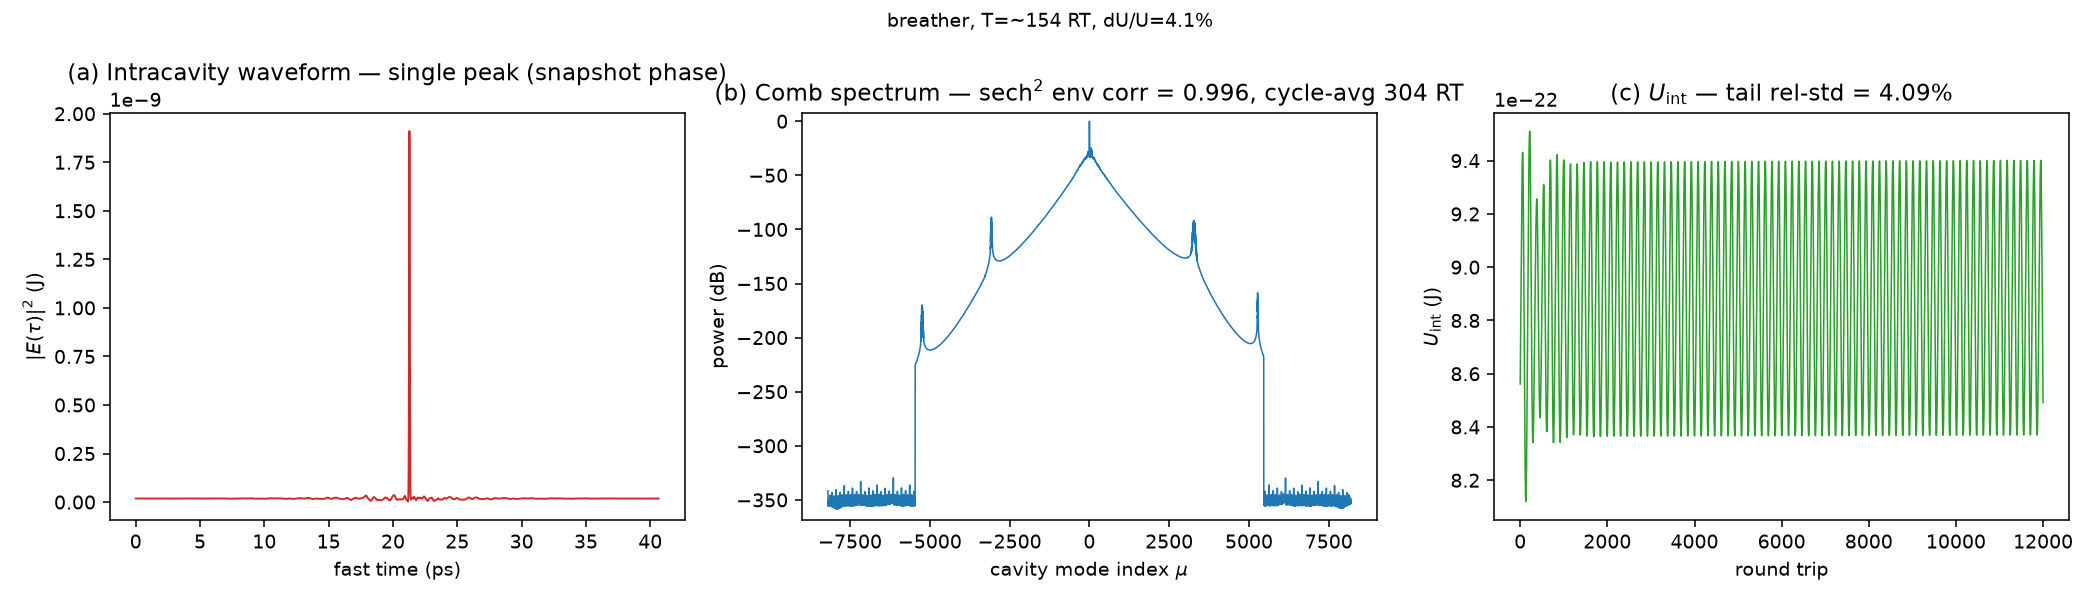
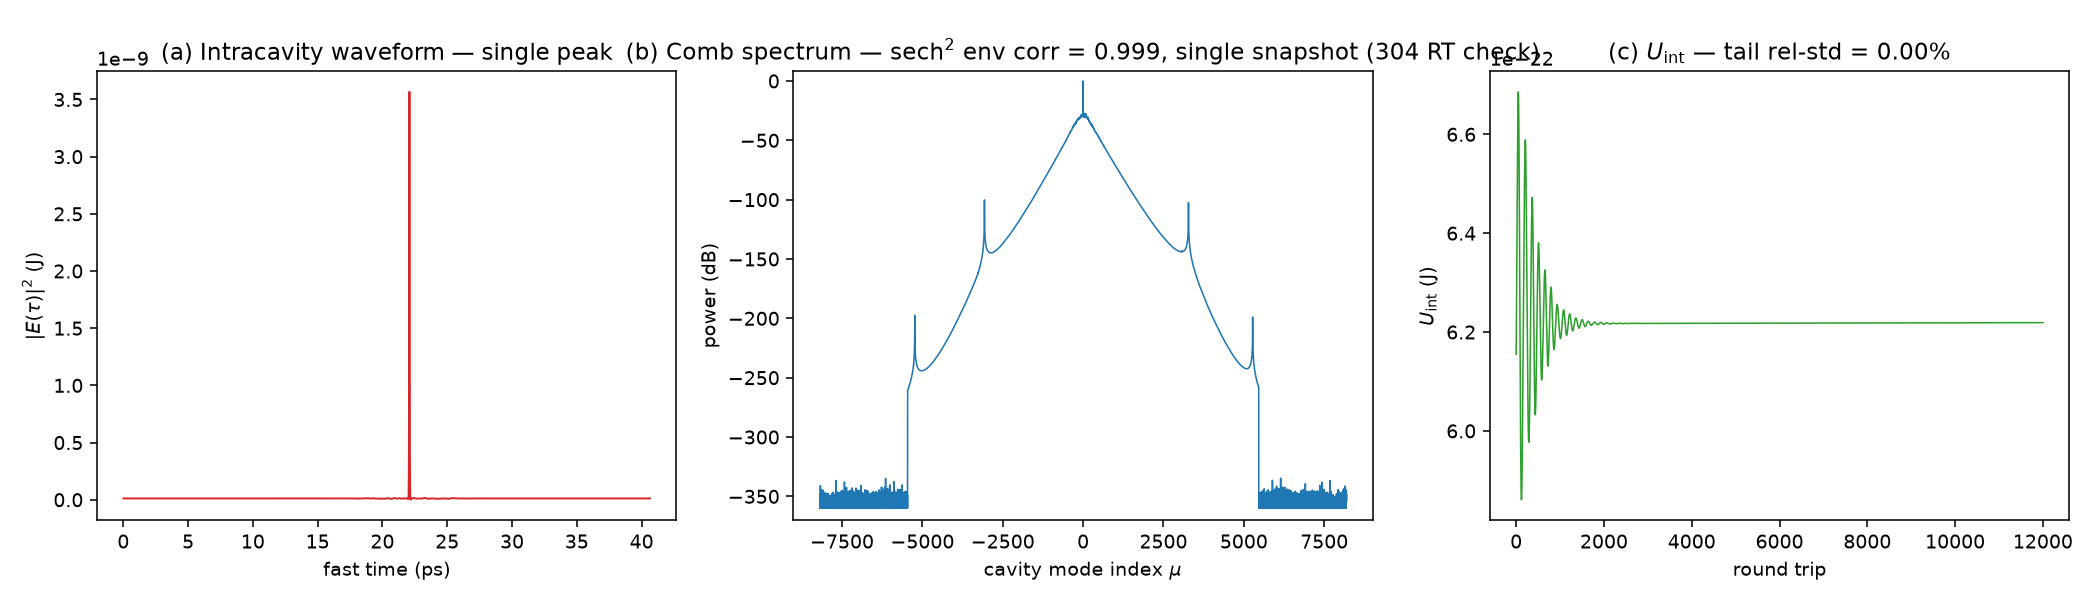
Replace forced-breather cycle-average spectrum with stationary snapshot path
Add stationary_snapshot_spectrum() to analysis/dks_access.py: continue a
settled DKS for n_check_rt round trips (snapshot_interval=1) and return the
FINAL snapshot's optical spectrum (phase-independent for a stationary
attractor) plus stationarity diagnostics — energy_rel_std, spectrum_max_dev_db
(max per-mode dB deviation vs the mean over visible modes), V6 is_breather,
and centroid_drift_modes. optical_spectrum and cycle_averaged_spectrum are
unchanged.

Rewrite scripts/regenerate_dks_artifacts.py stages 2-3:
- Stage 2 now asserts a STATIONARY DKS at the operating point (not a breather)
  with dU/U < STATIONARY_RELSTD, and drops the breather title annotation.
- Stage 3 builds the committed spectrum from a single snapshot via
  stationary_snapshot_spectrum, asserting energy_rel_std < STATIONARY_RELSTD
  and non-breathing. The spectrum NPZ stores n_rt_checked / energy_rel_std /
  spectrum_max_dev_db (replacing breathing_period_rt / breathing_relstd), and
  provenance records a stationarity_check block with stationarity="stationary".
- Rename --avg-rt to --check-rt (--avg-rt kept as a hidden back-compat alias).

plot_optical_spectrum / plot_soliton_summary label a stationary sp as
"single snapshot (stationarity-checked over N RT)".

Regenerate the committed 10-kappa stationary artifacts (energy_rel_std ~8e-6,
spectrum_max_dev ~0.004 dB), replacing the stale 8-kappa breather cycle-average.

Claude-Session: https://claude.ai/code/session_01UBzGyFHcwFWAnmToWF7xeW

diff --git a/analysis/dks_access.py b/analysis/dks_access.py
@@ -524,6 +524,86 @@ def cycle_averaged_spectrum(res: dict, cav: CavityParams, *, n_rt: int = None,
     return sp
 
 
+def stationary_snapshot_spectrum(res, cav, *, n_check_rt=400, pin=PIN_W,
+                                 config_path=CONFIG_PATH, **solver_kwargs):
+    """Single-snapshot spectrum of a SETTLED STATIONARY soliton + stability
+    diagnostics. Continues res["e_final"] (warm field + thermal state) for
+    n_check_rt round trips at snapshot_interval=1, then:
+      - spectrum = optical_spectrum(final snapshot)  (phase-independent for a
+        stationary attractor);
+      - energy_rel_std = std/mean of U_int over the continuation;
+      - spectrum_max_dev_db = max over the continuation of the per-mode dB
+        deviation of each RT's snapshot spectrum from the mean, restricted to
+        modes above a -200 dB visibility floor (temporal stability of the
+        comb);
+      - v6 = breathing_metrics(U_int continuation) — must report is_breather
+        False with autocorr peak < V6_MIN_AC_PEAK;
+      - centroid_drift_modes = |mode-power centroid(last) - centroid(first)|.
+    Returns a spectrum dict (same schema as optical_spectrum) plus keys
+    n_rt_checked, energy_rel_std, spectrum_max_dev_db, is_breather,
+    breathing_relstd, centroid_drift_modes, e_final. Reuse the _run(...,
+    snapshot_interval=1) continuation exactly as cycle_averaged_spectrum does,
+    but take the FINAL snapshot's spectrum instead of the mean.
+    """
+    e0 = np.asarray(res["e_final"])
+    n_tau = int(e0.shape[0])
+    n_rt = int(n_check_rt)
+    sol = _run(res["delta_omega"], n_rt, cav, e0=e0,
+               delta_t0=res.get("delta_t_final"), seed=res.get("seed", 0),
+               n_tau=n_tau, pin=pin, snapshot_interval=1,
+               config_path=config_path, **solver_kwargs)
+    snaps = np.asarray(sol["E_snapshots"])[0]
+    assert snaps.shape == (n_rt, n_tau), snaps.shape
+    e_final = np.asarray(sol["e_final"])[0]
+
+    # Spectrum from the FINAL snapshot. For a stationary attractor the field is
+    # fixed (up to a global phase that |fft|^2 discards), so the single snapshot
+    # is representative — no cycle-averaging needed (contrast breathers, whose
+    # every snapshot spectrum is breathing-phase-dependent).
+    sp = optical_spectrum(e_final, cav)
+
+    # Per-RT snapshot power spectra for the temporal-stability diagnostics.
+    powers = np.abs(
+        np.fft.fftshift(np.fft.fft(snaps, axis=-1), axes=-1)) ** 2   # (n_rt, n_tau)
+    mean_power = powers.mean(axis=0)
+
+    # Energy stability: rel-std of U_int over the continuation.
+    u_int = np.asarray(sol["U_int_history"])[0]
+    energy_rel_std = float(np.std(u_int) / max(np.mean(u_int), 1e-300))
+
+    # Temporal stability of the comb: max per-mode dB deviation of any RT's
+    # snapshot spectrum from the mean, over modes above a -200 dB visibility
+    # floor (dim/dealiased modes have meaningless dB and are excluded).
+    mean_norm_db = 10.0 * np.log10(
+        np.maximum(mean_power / max(mean_power.max(), 1e-300), 1e-36))
+    visible = mean_norm_db > -200.0
+    rt_db = 10.0 * np.log10(np.maximum(powers, 1e-300))
+    mean_db = 10.0 * np.log10(np.maximum(mean_power, 1e-300))
+    dev_db = np.abs(rt_db - mean_db[None, :])
+    spectrum_max_dev_db = (
+        float(dev_db[:, visible].max()) if bool(visible.any()) else 0.0)
+
+    # V6 breather-vs-stationary on the U_int continuation. A settled stationary
+    # DKS has no genuine periodicity: is_breather is False and the autocorr peak
+    # stays below V6_MIN_AC_PEAK (so breathing_period_rt is NaN).
+    v6 = breathing_metrics(u_int)
+
+    # Comb centroid drift (mode-power centroid, first vs last snapshot).
+    mu = np.arange(n_tau) - n_tau // 2
+    def _centroid(pw):
+        return float(np.sum(mu * pw) / max(np.sum(pw), 1e-300))
+    centroid_drift_modes = abs(_centroid(powers[-1]) - _centroid(powers[0]))
+
+    sp["n_rt_checked"] = n_rt
+    sp["energy_rel_std"] = energy_rel_std
+    sp["spectrum_max_dev_db"] = spectrum_max_dev_db
+    sp["is_breather"] = bool(v6["is_breather"])
+    sp["breathing_relstd"] = float(v6["breathing_relstd"])
+    sp["centroid_drift_modes"] = float(centroid_drift_modes)
+    sp["e_final"] = e_final
+    return sp
+
+
 def _measured_dint_native(csv_path=None):
     """Native (mu, D_int, D1, f0) from the CSV in the soliton-rest gauge.
 
@@ -1043,9 +1123,13 @@ def plot_optical_spectrum(path: Path, e_field, cav, delta_omega, *,
     if sp is None:
         sp = optical_spectrum(e_field, cav)
         main_label = f"n_tau={e_field.shape[0]} (resolved band)"
-    else:
+    elif "n_rt_averaged" in sp:
         main_label = (f"n_tau={sp['mu'].size}, cycle-averaged over "
-                      f"{sp.get('n_rt_averaged', '?')} RT")
+                      f"{sp['n_rt_averaged']} RT")
+    else:
+        main_label = (f"n_tau={sp['mu'].size}, single snapshot "
+                      f"(stationarity-checked over "
+                      f"{sp.get('n_rt_checked', '?')} RT)")
     fig, ax = plt.subplots(figsize=(9, 5.2))
     # sort by wavelength for a clean line
     order = np.argsort(sp["wavelength_nm"])
@@ -1136,8 +1220,10 @@ def plot_soliton_summary(path: Path, res, cav, *, sp=None, title_extra=""):
     comb_note = ""
     if sp is None:
         sp = optical_spectrum(e, cav)
+    elif "n_rt_averaged" in sp:
+        comb_note = f", cycle-avg {sp['n_rt_averaged']} RT"
     else:
-        comb_note = f", cycle-avg {sp.get('n_rt_averaged', '?')} RT"
+        comb_note = f", single snapshot ({sp.get('n_rt_checked', '?')} RT check)"
     order = np.argsort(sp["mu"])
     axes[1].plot(sp["mu"][order], sp["power_db"][order], "-", lw=0.8, color="tab:blue")
     axes[1].set_xlabel("cavity mode index $\\mu$")

diff --git a/scripts/regenerate_dks_artifacts.py b/scripts/regenerate_dks_artifacts.py
@@ -12,21 +12,24 @@ only to run cheaper debug variants; the committed artifacts use the defaults).
 
 Stages
 ------
-1. SETTLE   Seeded single-DKS run at DW_KAPPA = 8 kappa, pin = 0.214 W,
+1. SETTLE   Seeded single-DKS run at DW_KAPPA = OPERATING_DW_KAPPA, pin = 0.214 W,
             n_tau = 16384, 12000 round trips, seed 0, production numerics
             (float64, n_substeps = 4, 2/3 dealias ON, edge absorber ON,
             dispersion-validity mask OFF).
-2. V6       Stationarity check on the U_int history. At 8 kappa the attractor
-            is a deterministic BREATHER (controlled A/B: period ~152-153 RT,
-            dU/U ~4.1%), so the script aborts if V6 does NOT report a breather
-            (that would mean the committed annotation is stale).
-3. AVERAGE  Cycle-averaged spectrum: continue the settled trajectory for
-            CYCLE_AVG_RT = 304 RT (>= 2 breathing periods), accumulating
-            |fftshift(fft(E))|^2 every round trip. Regenerates
-            dks_single_soliton_spectrum.png and dks_single_soliton_summary.png
-            from the MEAN spectrum, title-annotated with the measured breather
-            period / rel-std. Snapshot spectra of a breather are
-            breathing-phase-dependent and must not be committed.
+2. V6       Stationarity check on the U_int history. At the production operating
+            point (OPERATING_DW_KAPPA) the attractor is a STATIONARY single DKS,
+            so the script aborts if V6 reports a breather or dU/U >=
+            STATIONARY_RELSTD (0.1%) — the committed spectrum artifacts require a
+            settled stationary state (if intentionally running the breather
+            point, use cycle_averaged_spectrum instead).
+3. SNAPSHOT Stationary single-snapshot spectrum: continue the settled trajectory
+            for CHECK_RT round trips at snapshot_interval = 1 and take the FINAL
+            snapshot's spectrum (phase-independent for a stationary attractor).
+            The continuation also yields the stability diagnostics
+            (energy_rel_std, spectrum_max_dev_db, V6 is_breather, centroid
+            drift); the script aborts unless energy_rel_std < STATIONARY_RELSTD
+            and V6 is non-breathing. Regenerates dks_single_soliton_spectrum.png
+            and dks_single_soliton_summary.png with a "single snapshot" label.
 4. SCAN     Breathing scan delta_omega = 7..16 kappa (0.5 steps, 4000 RT,
             n_tau = 8192, production numerics): writes
             dks_breathing_scan.csv / .png and merges the V6 breathing columns
@@ -60,16 +63,16 @@ from analysis.dks_access import (  # noqa: E402  (needs the sys.path insert)
     PIN_W,
     PRODUCTION_NUMERICS,
     RESULTS_DIR,
+    STATIONARY_RELSTD,
     access_by_seeding,
     attach_dispersion,
-    breather_title_annotation,
     breathing_scan,
-    cycle_averaged_spectrum,
     dispersive_wave_peaks,
     load_cavity_params,
     plot_breathing_scan,
     plot_optical_spectrum,
     plot_soliton_summary,
+    stationary_snapshot_spectrum,
     write_breathing_csv,
 )
 
@@ -78,7 +81,10 @@ DW_KAPPA = OPERATING_DW_KAPPA   # production operating detuning [kappa] (authori
 SETTLE_N_TAU = 16384      # resolves both DW crossings (|mu| ~ 3000-3300)
 SETTLE_RT = 12_000        # ~0.1 tau_th: seed fully relaxed onto the attractor
 SETTLE_SEED = 0
-CYCLE_AVG_RT = CYCLE_AVG_RT_8KAPPA   # 304 RT >= 2*T_b (T_b ~ 152-153 RT)
+# Stage-3 stationarity-check continuation length. 304 RT (>> the 200 RT V6 needs
+# for a reliable breather/stationary readout) is ample for a settled DKS; reuses
+# the validated CYCLE_AVG_RT_8KAPPA number of round trips.
+CHECK_RT = CYCLE_AVG_RT_8KAPPA
 
 SCAN_DW_LO, SCAN_DW_HI, SCAN_DW_STEP = 7.0, 16.0, 0.5   # [kappa]
 SCAN_RT = 4000
@@ -88,7 +94,7 @@ SCAN_SEED = 0
 # dealias_two_thirds=True, edge_absorber=True, dispersion_validity_mask=False.
 
 SPECTRUM_PNG = "dks_single_soliton_spectrum.png"
-SPECTRUM_NPZ = "dks_single_soliton_spectrum.npz"   # raw cycle-averaged data
+SPECTRUM_NPZ = "dks_single_soliton_spectrum.npz"   # raw single-snapshot data
 SUMMARY_PNG = "dks_single_soliton_summary.png"
 SCAN_CSV = "dks_breathing_scan.csv"
 SCAN_PNG = "dks_breathing_scan.png"
@@ -139,7 +145,11 @@ def main() -> None:
                     help="skip stage 4 (breathing scan + existence-map merge)")
     ap.add_argument("--n-tau", type=int, default=SETTLE_N_TAU)
     ap.add_argument("--settle-rt", type=int, default=SETTLE_RT)
-    ap.add_argument("--avg-rt", type=int, default=CYCLE_AVG_RT)
+    ap.add_argument("--check-rt", dest="check_rt", type=int, default=CHECK_RT,
+                    help="round trips for the stage-3 stationarity check")
+    # Back-compat hidden alias for --check-rt (formerly the cycle-average length).
+    ap.add_argument("--avg-rt", dest="check_rt", type=int,
+                    default=argparse.SUPPRESS, help=argparse.SUPPRESS)
     ap.add_argument("--scan-rt", type=int, default=SCAN_RT)
     ap.add_argument("--scan-n-tau", type=int, default=SCAN_N_TAU)
     args = ap.parse_args()
@@ -159,11 +169,13 @@ def main() -> None:
         "numerics": dict(PRODUCTION_NUMERICS),
         "settle": {"dw_kappa": DW_KAPPA, "n_tau": args.n_tau,
                    "t_slow_rt": args.settle_rt, "seed": SETTLE_SEED},
-        "cycle_average": {"n_rt": args.avg_rt},
         "scan": {"dw_kappa_lo": SCAN_DW_LO, "dw_kappa_hi": SCAN_DW_HI,
                  "dw_kappa_step": SCAN_DW_STEP, "t_slow_rt": args.scan_rt,
                  "n_tau": args.scan_n_tau, "seed": SCAN_SEED},
     })
+    # The forced-breather cycle-average block was renamed to "stationarity_check";
+    # drop the stale key when updating a provenance file from the old path.
+    provenance.pop("cycle_average", None)
 
     if not args.skip_settle:
         print(f"[regen] stage 1 SETTLE: dw = {DW_KAPPA} kappa, "
@@ -181,27 +193,43 @@ def main() -> None:
         print(f"[regen] stage 2 V6: stationarity = {m['stationarity']}, "
               f"T_b = {m['breathing_period_rt']:.1f} RT, "
               f"dU/U = {m['breathing_relstd']:.2%}")
-        assert m["is_breather"], (
-            "V6 no longer reports a breather at 8 kappa — the committed "
-            "breather annotations would be stale. Investigate before "
-            "regenerating."
-        )
-        title_extra = breather_title_annotation(m)
+        assert not m["is_breather"] and m["breathing_relstd"] < STATIONARY_RELSTD, (
+            f"expected a stationary DKS at {DW_KAPPA}κ but V6 reports "
+            f"is_breather={m['is_breather']}, dU/U={m['breathing_relstd']:.3%} "
+            f">= {STATIONARY_RELSTD:.1%}. If intentionally running the breather "
+            f"point, use cycle_averaged_spectrum instead.")
+        title_extra = ""   # stationary DKS: no breather annotation
 
-        print(f"[regen] stage 3 AVERAGE: {args.avg_rt} RT cycle average ...")
-        sp = cycle_averaged_spectrum(res, cav, n_rt=args.avg_rt, pin=PIN_W,
-                                     **PRODUCTION_NUMERICS)
+        print(f"[regen] stage 3 SNAPSHOT: stationary single snapshot, "
+              f"{args.check_rt} RT stationarity check ...")
+        sp = stationary_snapshot_spectrum(res, cav, n_check_rt=args.check_rt,
+                                          pin=PIN_W, **PRODUCTION_NUMERICS)
+        assert sp["energy_rel_std"] < STATIONARY_RELSTD, (
+            f"stage-3 continuation is not stationary: energy_rel_std = "
+            f"{sp['energy_rel_std']:.3%} >= {STATIONARY_RELSTD:.1%} "
+            f"(spectrum_max_dev_db = {sp['spectrum_max_dev_db']:.2f} dB).")
+        assert not sp["is_breather"], (
+            f"stage-3 continuation V6 reports a breather (dU/U = "
+            f"{sp['breathing_relstd']:.3%}); expected a stationary DKS.")
+        print(f"[regen] stationarity: energy_rel_std = {sp['energy_rel_std']:.4%}, "
+              f"spectrum_max_dev = {sp['spectrum_max_dev_db']:.2f} dB, "
+              f"centroid_drift = {sp['centroid_drift_modes']:.3f} modes")
         np.savez_compressed(
             RESULTS_DIR / SPECTRUM_NPZ, mu=sp["mu"],
             wavelength_nm=sp["wavelength_nm"], power_db=sp["power_db"],
-            power_norm=sp["power_norm"], n_rt_averaged=sp["n_rt_averaged"],
-            breathing_period_rt=m["breathing_period_rt"],
-            breathing_relstd=m["breathing_relstd"],
+            power_norm=sp["power_norm"], n_rt_checked=sp["n_rt_checked"],
+            energy_rel_std=sp["energy_rel_std"],
+            spectrum_max_dev_db=sp["spectrum_max_dev_db"],
         )
         plot_optical_spectrum(RESULTS_DIR / SPECTRUM_PNG, res["e_final"], cav,
                               dw, sp=sp, title_extra=title_extra)
         plot_soliton_summary(RESULTS_DIR / SUMMARY_PNG, res, cav, sp=sp,
                              title_extra=title_extra)
+        provenance["stationarity_check"] = {
+            "n_rt": args.check_rt,
+            "energy_rel_std": sp["energy_rel_std"],
+            "spectrum_max_dev_db": sp["spectrum_max_dev_db"],
+        }
 
         dws = dispersive_wave_peaks(sp, dw)
         lam = np.asarray(sp["wavelength_nm"])
@@ -214,7 +242,7 @@ def main() -> None:
         slope = float(np.polyfit(np.abs(mu[sel]).astype(float), db[sel], 1)[0])
         provenance["measured"] = {
             "is_single": bool(res["is_single"]),
-            "stationarity": m["stationarity"],
+            "stationarity": "stationary",
             "breathing_period_rt": m["breathing_period_rt"],
             "breathing_relstd": m["breathing_relstd"],
             "red_tail_slope_db_per_mode": slope,